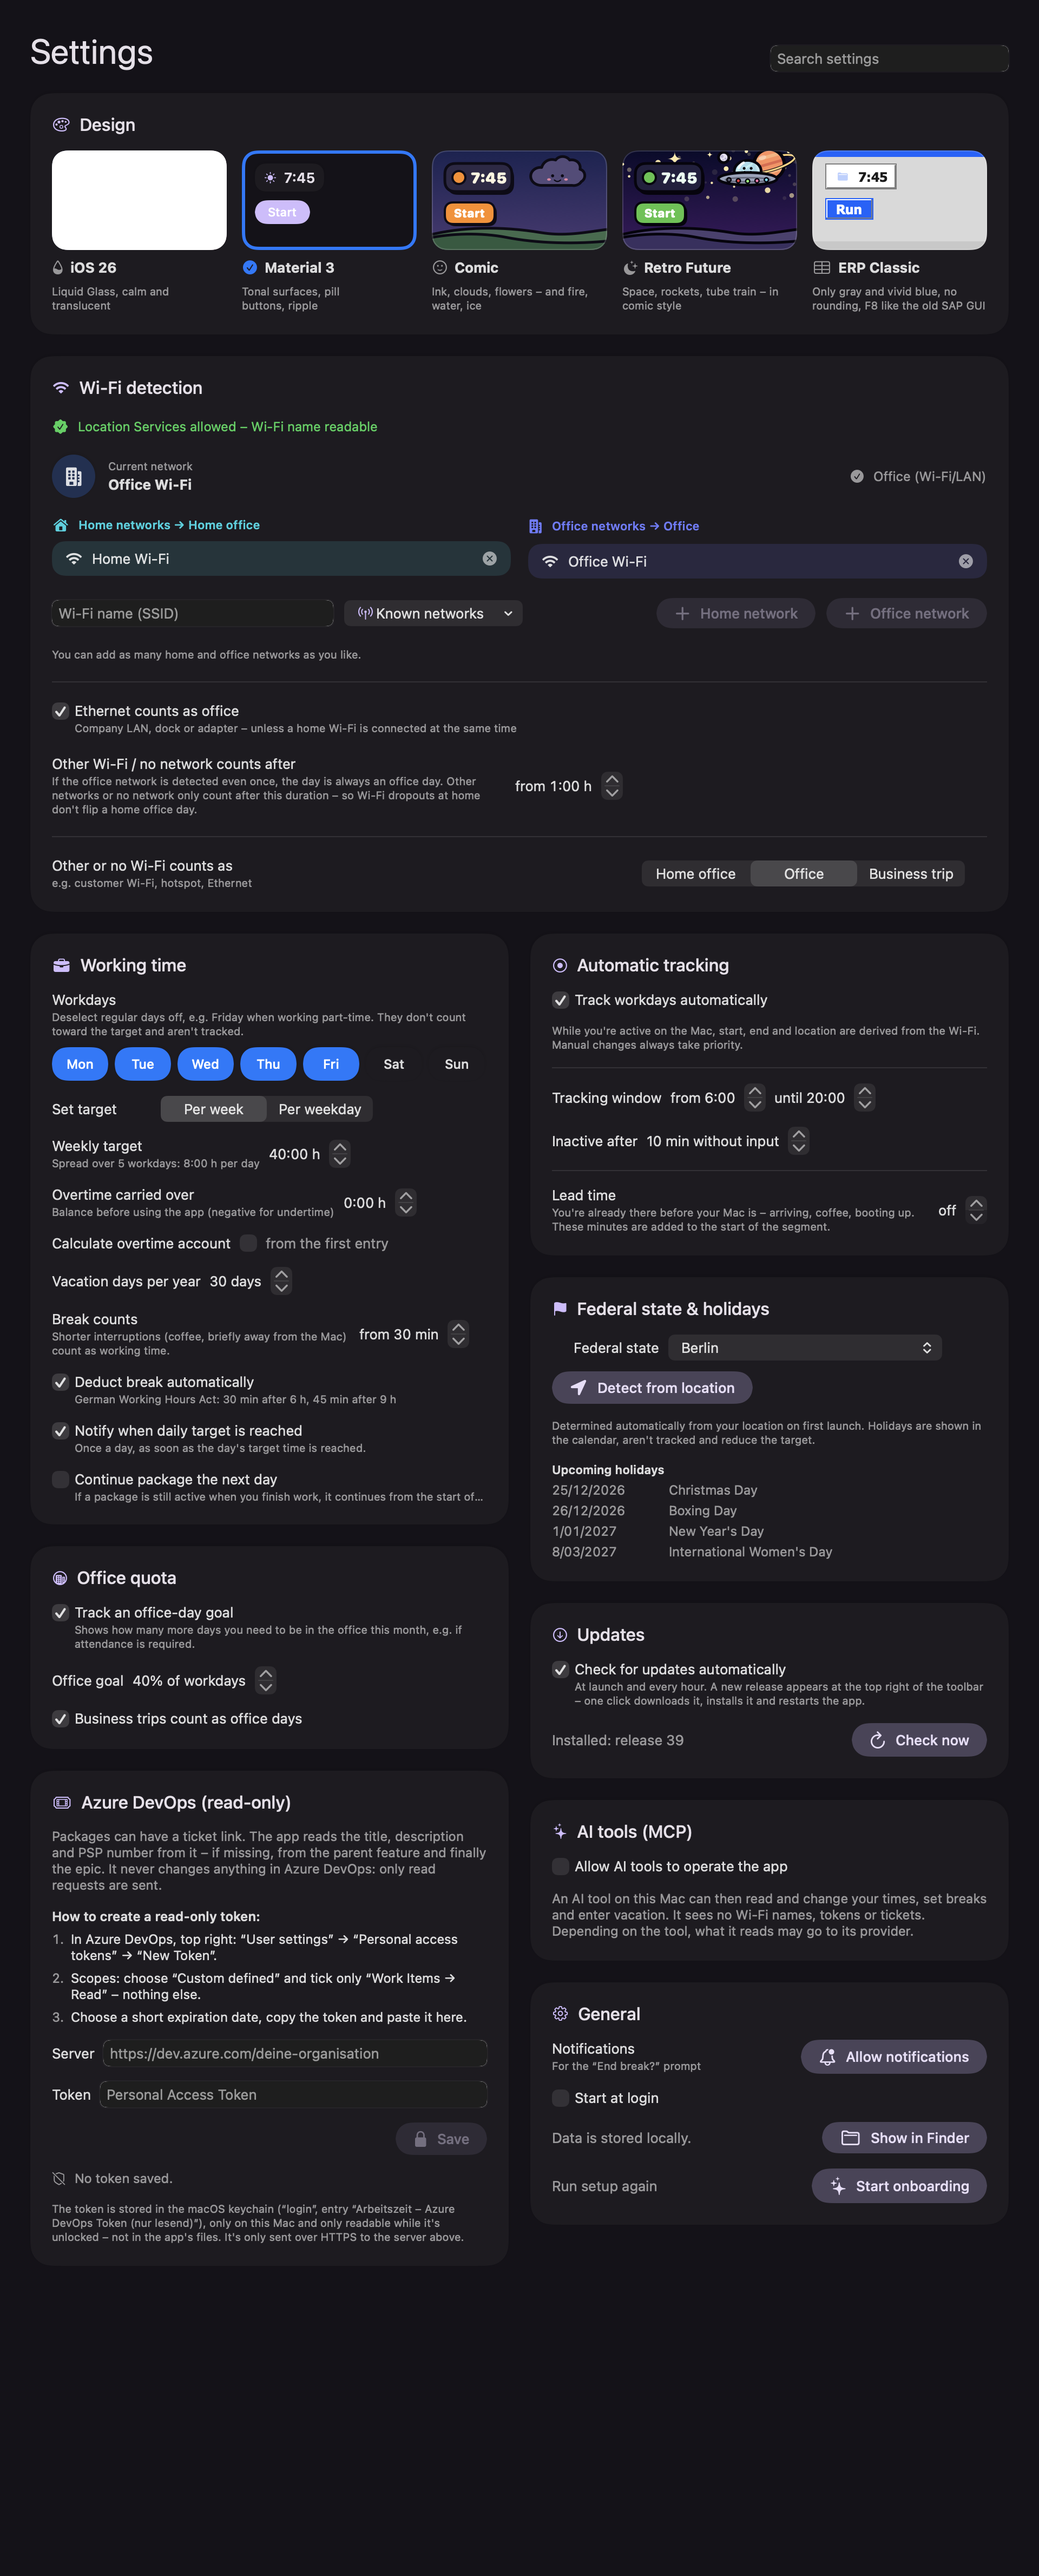
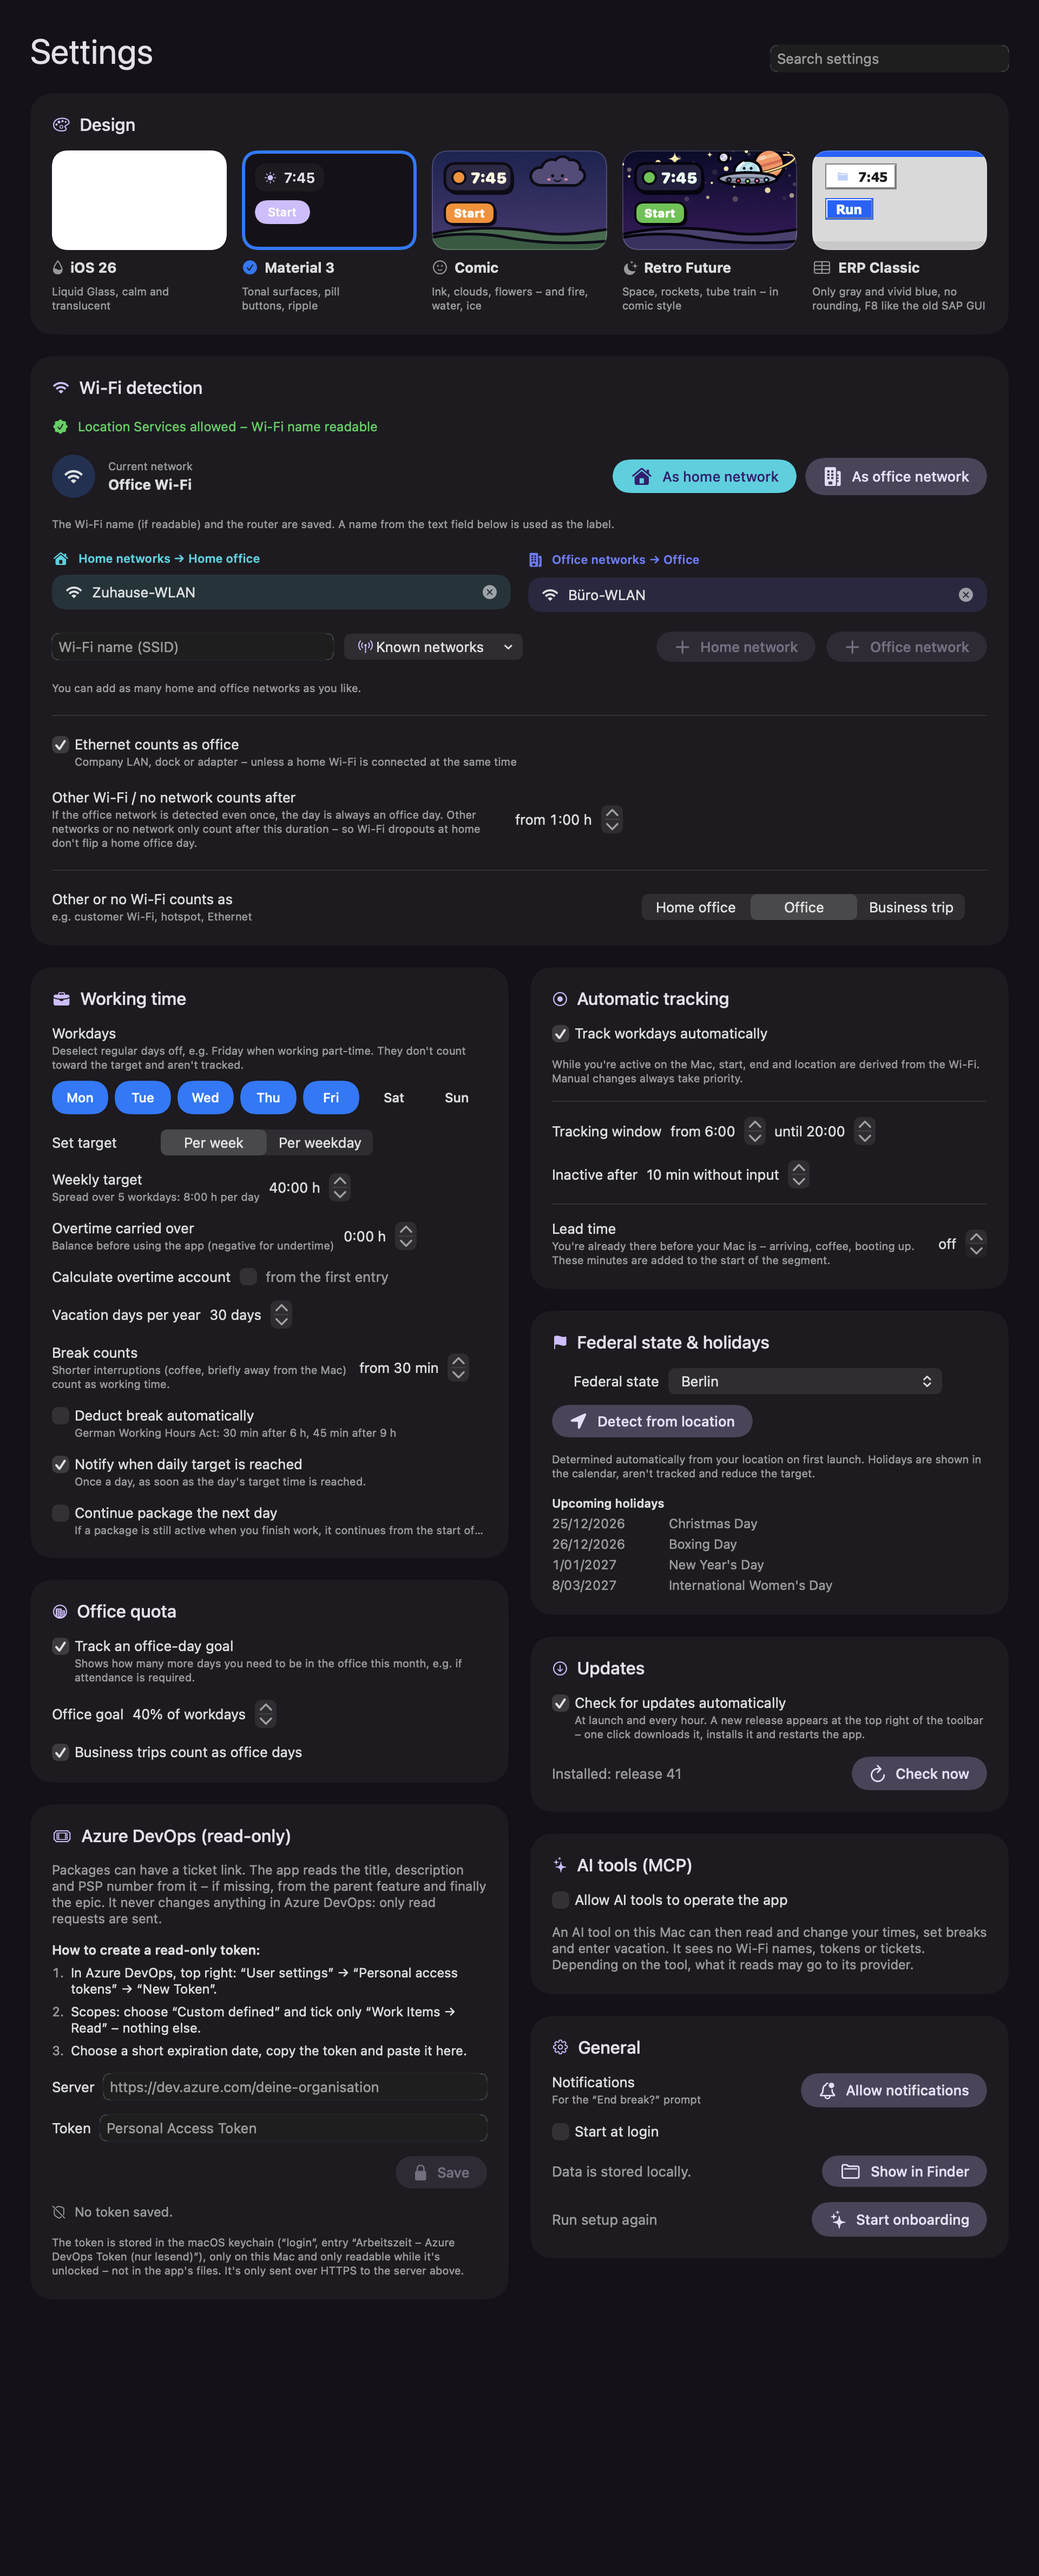
Docs: update description and screenshots

diff --git a/README.md b/README.md
@@ -12,7 +12,7 @@ Work-time tracker for macOS · Arbeitszeiterfassung für macOS
 
 - **Your own Today page** – move cards, resize them from any edge or hide them, and add headings, text and lines as building blocks.
 - **Automatic tracking** – start, end and location come from your Wi-Fi or LAN connection while you are active on your Mac. Manual changes always win.
-- **Start, break, stop** – or simply switch to your own hours for a day. Both values stay saved, so you can switch back at any time.
+- **Start, break, stop** – or simply switch to your own hours for a day. Both values stay saved, so you can switch back at any time. Working time shows the real time: only recorded breaks are deducted, and the automatic statutory break can be switched on in the settings.
 - **Calendar** – every day at a glance: home office, office, business trip, vacation, sick days and public holidays. Click a day to edit it.
 - **Monthly report** – working time, target, overtime balance and vacation days, with CSV export.
 - **Office quota** – shows how many office days you still need this month.
@@ -154,7 +154,7 @@ The source code is not hosted here.
 
 - **Deine eigene Heute-Seite** – Karten verschieben, an allen Kanten in der Größe ändern oder ausblenden, dazu Überschriften, Texte und Linien als Bausteine.
 - **Automatische Erfassung** – Beginn, Ende und Ort kommen aus deiner WLAN- oder LAN-Verbindung, solange du am Mac aktiv bist. Manuelle Änderungen haben immer Vorrang.
-- **Start, Pause, Stop** – oder für einen Tag einfach auf eigene Stunden umschalten. Beide Werte bleiben gespeichert, du kannst jederzeit zurück.
+- **Start, Pause, Stop** – oder für einen Tag einfach auf eigene Stunden umschalten. Beide Werte bleiben gespeichert, du kannst jederzeit zurück. Die Arbeitszeit zeigt die wirkliche Zeit: Abgezogen werden nur erfasste Pausen, der automatische Abzug nach Gesetz lässt sich in den Einstellungen einschalten.
 - **Kalender** – jeder Tag auf einen Blick: Homeoffice, Büro, Dienstreise, Urlaub, Krankheit und Feiertage. Ein Klick auf den Tag öffnet die Bearbeitung.
 - **Monatsabrechnung** – Arbeitszeit, Soll, Überstundenkonto und Urlaubstage, mit CSV-Export.
 - **Büro-Quote** – zeigt, wie viele Bürotage dir in diesem Monat noch fehlen.
